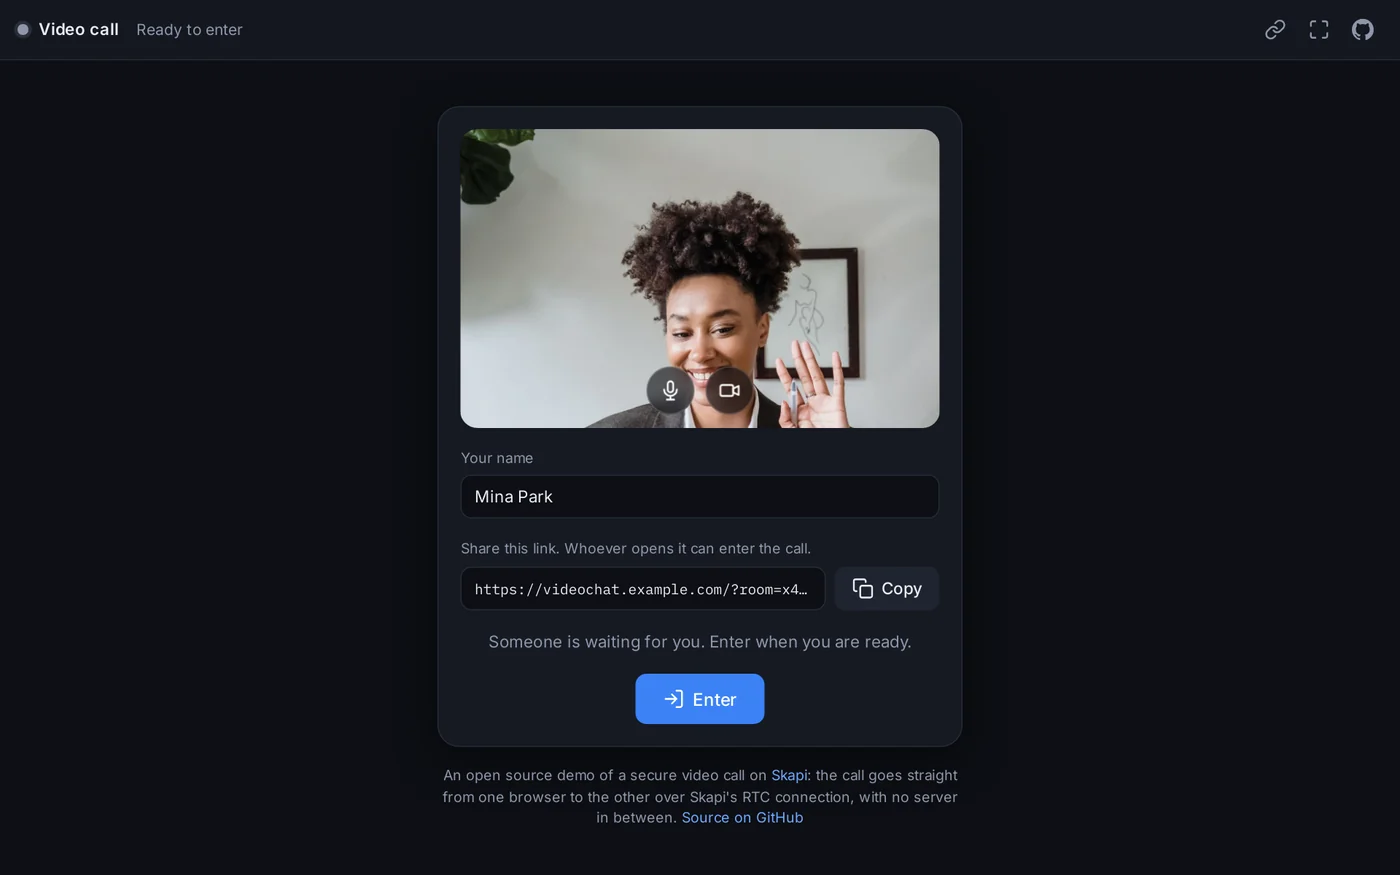
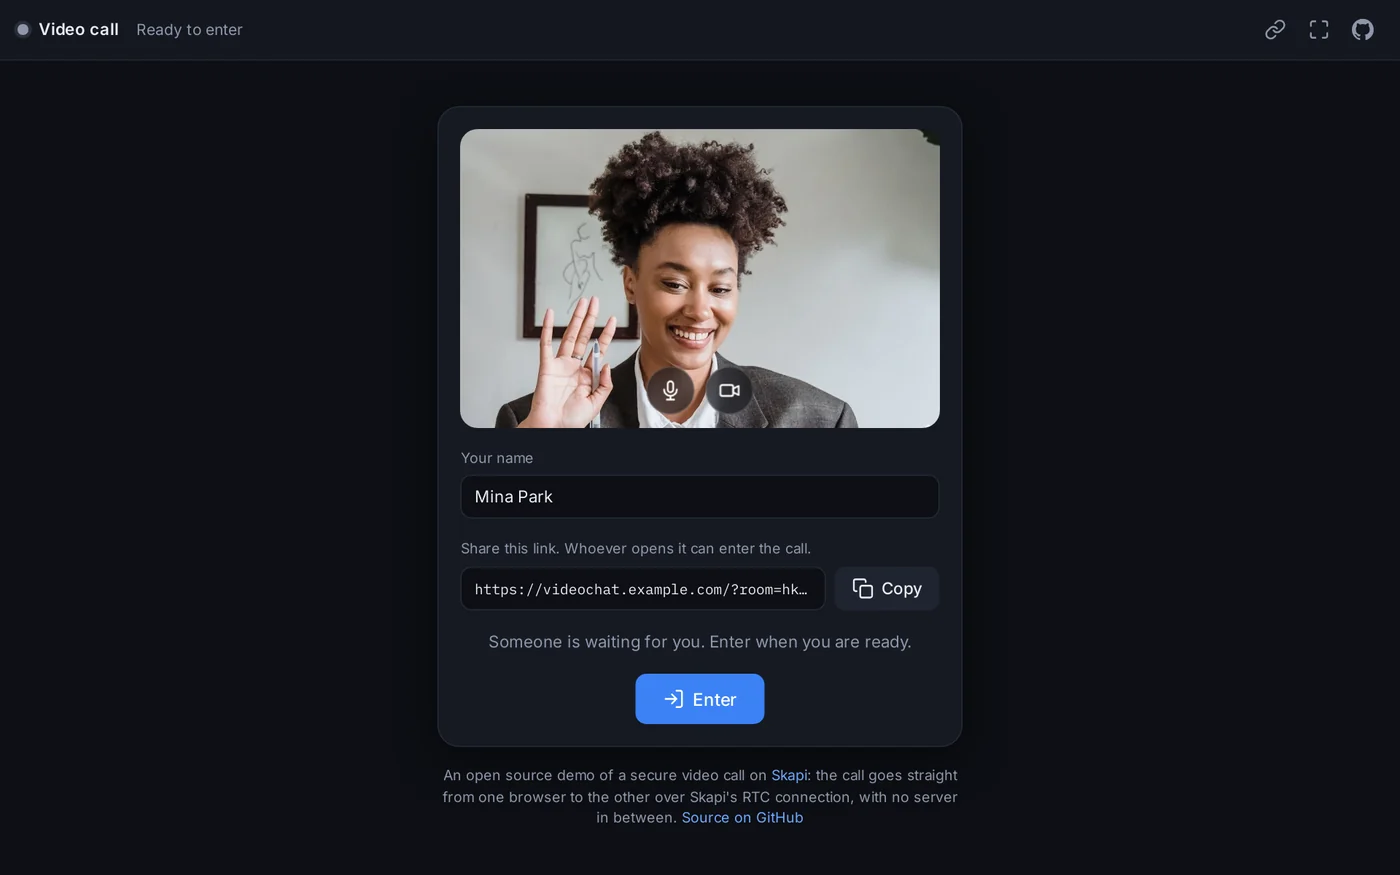
update

Changed region(s): [[0.3071, 0.1234, 0.6757, 0.4937]]

diff --git a/app.js b/app.js
@@ -158,7 +158,7 @@ function reconcile() {
     if (me.user_id < p.user_id) {
         callPeer(cid, p).catch((err) => { showError(err.message); setState("lobby"); });
     } else {
-        setLobbyStatus(`${name} is here. Connecting...`);
+        setLobbyStatus(`${name} is here. Connecting...`, false, true);
         setStatus("Connecting...");
     }
 }
@@ -192,7 +192,7 @@ async function mediaOptions() {
 async function callPeer(cid, p) {
     if (rtc || call || receiver || appState() === "calling") return;
     const my = beginCall({ user_id: p.user_id, cid, name: p.name || "Guest" });
-    setLobbyStatus(`Calling ${peer.name}...`);
+    setLobbyStatus(`Calling ${peer.name}...`, false, true);
 
     const options = await mediaOptions();
     if (attempt !== my) return; // cancelled while the camera was opening
@@ -226,7 +226,7 @@ async function acceptCall(rt) {
     receiver = rt;
     peers.set(rt.sender_cid, { user_id: rt.sender, name: rt.meta?.name || null });
     const my = beginCall({ user_id: rt.sender, cid: rt.sender_cid, name: rt.meta?.name || "Guest" });
-    setLobbyStatus(`${peer.name} is calling. Connecting...`);
+    setLobbyStatus(`${peer.name} is calling. Connecting...`, false, true);
 
     const options = await mediaOptions();
     if (attempt !== my) return;
@@ -459,7 +459,7 @@ function renderStage() {
     } else if (video.srcObject) {
         video.srcObject = null;
     }
-    video.classList.toggle("mirror", view === "me-camera");
+    video.classList.toggle("mirror", view === "me-camera"); // your own camera is shown as a mirror, like a preview
     $("stage").dataset.kind = view && view.endsWith("camera") ? "camera" : "other";
 
     const cameraOff = (view === "me-camera" && !camState.me) || (view === "them-camera" && !camState.them);
@@ -1093,6 +1093,19 @@ function indent(outdent) {
     autosize();
 }
 
+// Shift+Enter starts a new line that keeps the indentation of the line it leaves, the way a code editor does.
+function newLine() {
+    const { selectionStart: s, selectionEnd: e, value } = input;
+    const lineStart = value.lastIndexOf("\n", s - 1) + 1;
+    const indentation = /^[ \t]*/.exec(value.slice(lineStart, s))[0]; // the leading tabs and spaces before the caret
+    const text = "\n" + indentation;
+    // execCommand keeps the browser's undo history; setRangeText is the fallback
+    let done = false;
+    try { done = document.execCommand("insertText", false, text); } catch (err) { }
+    if (!done) input.setRangeText(text, s, e, "end");
+    autosize();
+}
+
 input.addEventListener("keydown", (event) => {
     if (event.key === "Tab") {
         event.preventDefault();
@@ -1100,9 +1113,9 @@ input.addEventListener("keydown", (event) => {
         return;
     }
     if (event.key !== "Enter" || event.isComposing || event.keyCode === 229) return; // a phone keyboard still composing a word
-    if (event.shiftKey) return; // Shift+Enter: a new line
     event.preventDefault();
-    submitChat();
+    if (event.shiftKey) newLine();
+    else submitChat();
 });
 
 $("composer").addEventListener("submit", (event) => {
@@ -1193,11 +1206,13 @@ function fileReceived(e) {
     if (!entry) entry = fileRow(false, e.name, e.size);
     incomingFiles.delete(e.id);
     entry.progress.remove();
+    const stick = nearEnd(); // decided before the row grows
     const url = URL.createObjectURL(e.file);
     if (/^image\//.test(e.mime)) {
         const img = document.createElement("img");
         img.src = url;
         img.alt = e.name;
+        img.addEventListener("load", () => { if (stick) scrollToEnd(); }); // the picture gets its height only once it has loaded
         entry.body.append(img);
     }
     const link = document.createElement("a");
@@ -1205,7 +1220,7 @@ function fileReceived(e) {
     link.download = e.name;
     link.innerHTML = `<svg class="icon"><use href="#i-download"/></svg> Download`;
     entry.body.append(link);
-    if (nearEnd()) scrollToEnd();
+    if (stick) scrollToEnd();
 }
 
 /* ---------------------------------------------------------------------------------------------------
@@ -1229,10 +1244,12 @@ function setStatus(text) {
     $("statusText").textContent = text;
 }
 
-function setLobbyStatus(text, alert) {
+// The line under the waiting-room card. `busy` shows a turning ring in front of it while something is in progress.
+function setLobbyStatus(text, alert, busy) {
     const el = $("lobbyStatus");
     el.textContent = lobbyNote ? `${lobbyNote} ${text}` : text;
     el.classList.toggle("alert", Boolean(alert));
+    el.classList.toggle("busy", Boolean(busy));
 }
 
 function loadName() {
@@ -1314,7 +1331,7 @@ async function enterRoom() {
     if (entered) return;
     entered = true;
     $("btnEnter").hidden = true;
-    setLobbyStatus("Entering...");
+    setLobbyStatus("Entering...", false, true);
     try {
         await skapi.joinRealtime({ group: GROUP });
         try { sessionStorage.setItem("videocall:entered", room); } catch (err) { }
@@ -1331,11 +1348,15 @@ $("btnEnter").addEventListener("click", () => { enterRoom(); });
 
 async function main() {
     try {
+        // The camera does not depend on the account: it opens right away, while the sign-in runs.
+        // Signing in takes a moment, longer when a temporary account from an earlier visit has expired and the
+        // SDK has to give it up and make a new one; the waiting room says so meanwhile.
+        previewReady = startPreview();
+        setLobbyStatus("Connecting to the service...", false, true);
         const user = await signIn();
         me.user_id = user.user_id;
         setState("lobby");
         setStatus("Connecting...");
-        previewReady = startPreview();
 
         await skapi.connectRealtime(onRealtime);
         if (entered) {
@@ -1353,6 +1374,7 @@ async function main() {
     } catch (err) {
         console.error(err);
         setStatus("Could not start");
+        setLobbyStatus("Could not connect to the service. Reload the page to try again.", true);
         if (/anonymous login is not enabled/i.test(err?.message || "")) {
             showToast("Anonymous login is turned off for this project.", {
                 error: true, sticky: true,

diff --git a/style.css b/style.css
@@ -94,6 +94,7 @@ button:disabled {
     stroke: none;
 }
 
+/* Your own camera is flipped like a mirror, the way a preview feels natural; nobody else sees it flipped. */
 .mirror {
     transform: scaleX(-1);
 }
@@ -133,6 +134,7 @@ button:disabled {
     transition: background .2s, box-shadow .2s;
 }
 
+.app[data-state="init"] .status-dot,
 .app[data-state="calling"] .status-dot {
     background: var(--warn);
     box-shadow: 0 0 0 3px rgba(251, 191, 36, .22);
@@ -352,6 +354,26 @@ a.icon-btn {
     color: var(--warn);
 }
 
+/* A small ring turns in front of the line while something is in progress: signing in, entering, connecting. */
+.lobby-status.busy::before {
+    content: "";
+    display: inline-block;
+    width: .8em;
+    height: .8em;
+    margin-right: .5em;
+    vertical-align: -.08em;
+    border: 2px solid var(--surface-2);
+    border-top-color: var(--accent);
+    border-radius: 50%;
+    animation: spin .9s linear infinite;
+}
+
+@keyframes spin {
+    to {
+        transform: rotate(360deg);
+    }
+}
+
 .lobby-actions {
     display: flex;
     justify-content: center;
@@ -402,11 +424,17 @@ a.icon-btn {
     grid-area: 1 / 1;
 }
 
+/* A camera fills the stage, centred and cropped at the edges; a screen or the board is always shown whole. */
 .stage video {
     width: 100%;
     height: 100%;
-    object-fit: contain;
+    object-fit: cover;
+    object-position: center;
     display: block;
+}
+
+.stage[data-kind="other"] video {
+    object-fit: contain;
 }
 
 .stage-empty {
@@ -456,11 +484,13 @@ a.icon-btn {
     display: grid;
     place-items: center;
     padding: .75rem;
+    container-type: size;
 }
 
+/* As wide as the stage allows, or as wide as its height allows: 16:10 either way, never stretched. */
 .board-wrap canvas {
-    max-width: 100%;
-    max-height: 100%;
+    width: min(100%, calc(100cqh * 1.6));
+    height: auto;
     aspect-ratio: 16 / 10;
     background: var(--paper);
     border-radius: 8px;
@@ -595,6 +625,11 @@ a.icon-btn {
     height: 100%;
     object-fit: cover;
     display: block;
+}
+
+/* A shared screen is never cropped, not even as a thumbnail. */
+.tile[data-view$="screen"] video {
+    object-fit: contain;
 }
 
 .tile-board canvas {
@@ -1268,10 +1303,6 @@ a.icon-btn {
         border-radius: 16px;
     }
 
-    /* A camera fills the tall stage of a phone; a screen or the board keeps its shape. */
-    .stage[data-kind="camera"] video {
-        object-fit: cover;
-    }
 
     .board-wrap {
         padding: .4rem;

diff --git a/index.html b/index.html
@@ -107,9 +107,9 @@
                 <div class="lobby-card">
                     <div class="preview" id="preview">
                         <video id="previewVideo" autoplay muted playsinline class="mirror"></video>
-                        <div class="preview-off" id="previewOff" hidden>
+                        <div class="preview-off" id="previewOff">
                             <svg class="icon icon-lg"><use href="#i-user"/></svg>
-                            <span id="previewOffText">No camera</span>
+                            <span id="previewOffText">Starting the camera...</span>
                         </div>
                         <!-- Microphone and camera on or off before the call. The choice is applied the moment the call connects. -->
                         <div class="preview-ctls">
@@ -142,7 +142,7 @@
                         </div>
                     </div>
 
-                    <p class="lobby-status" id="lobbyStatus"></p>
+                    <p class="lobby-status busy" id="lobbyStatus">Connecting to the service...</p>
                     <div class="lobby-actions">
                         <button type="button" class="btn primary big" id="btnEnter" hidden>
                             <svg class="icon"><use href="#i-enter"/></svg><span>Enter</span>

diff --git a/README.md b/README.md
@@ -26,7 +26,7 @@ Everyone starts in the waiting room.
   <img src="screenshots/mic-off.webp" width="420" alt="The preview with the microphone turned off">
 - **Your name** is what the other person sees under your video and in the chat. It is remembered on this device.
 - **The link** is the invitation. Press **Copy** to copy it, then paste it into a message, an e-mail or wherever you like. On a phone there is also a **Share** button that opens the usual sharing menu.
-- **The status line** at the bottom says what is happening: waiting for someone, connecting, or who has arrived.
+- **The status line** at the bottom says what is happening: connecting to the service when the page opens (a turning ring shows while it works, which can take a few seconds on a first visit or after a long break), waiting for someone, connecting, or who has arrived.
 
 The call starts by itself as soon as the other person enters. You do not have to accept anything.
 
@@ -110,7 +110,7 @@ Type in the box at the bottom. The box grows as you write.
 | Key | What happens |
 | --- | --- |
 | **Enter** | Sends the message. |
-| **Shift + Enter** | Starts a new line without sending. |
+| **Shift + Enter** | Starts a new line without sending. The new line keeps the indentation of the line you were on, like a code editor. |
 | **Tab** | Indents the line (or every selected line) by one step. |
 | **Shift + Tab** | Removes one step of indentation. |
 
